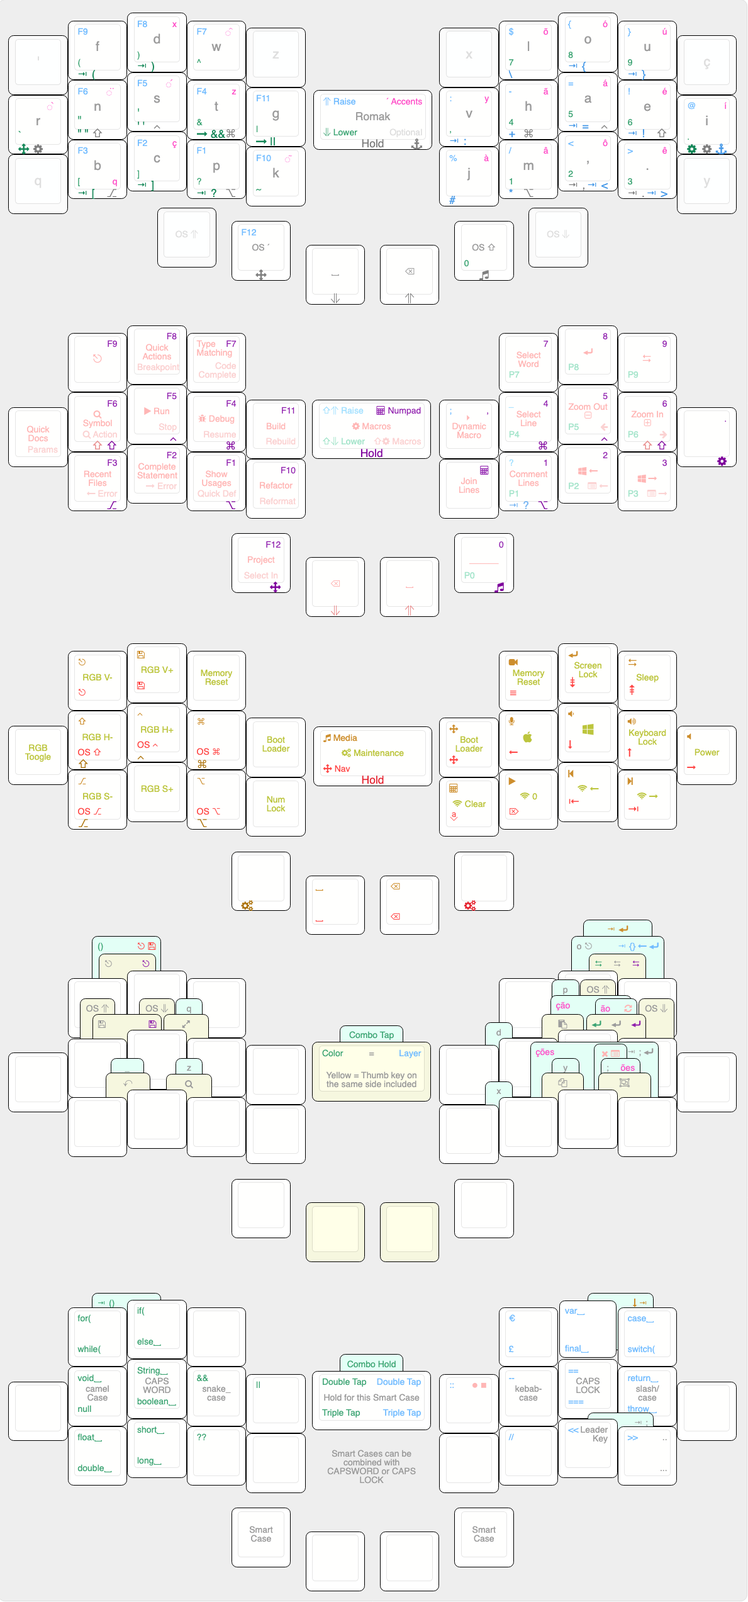
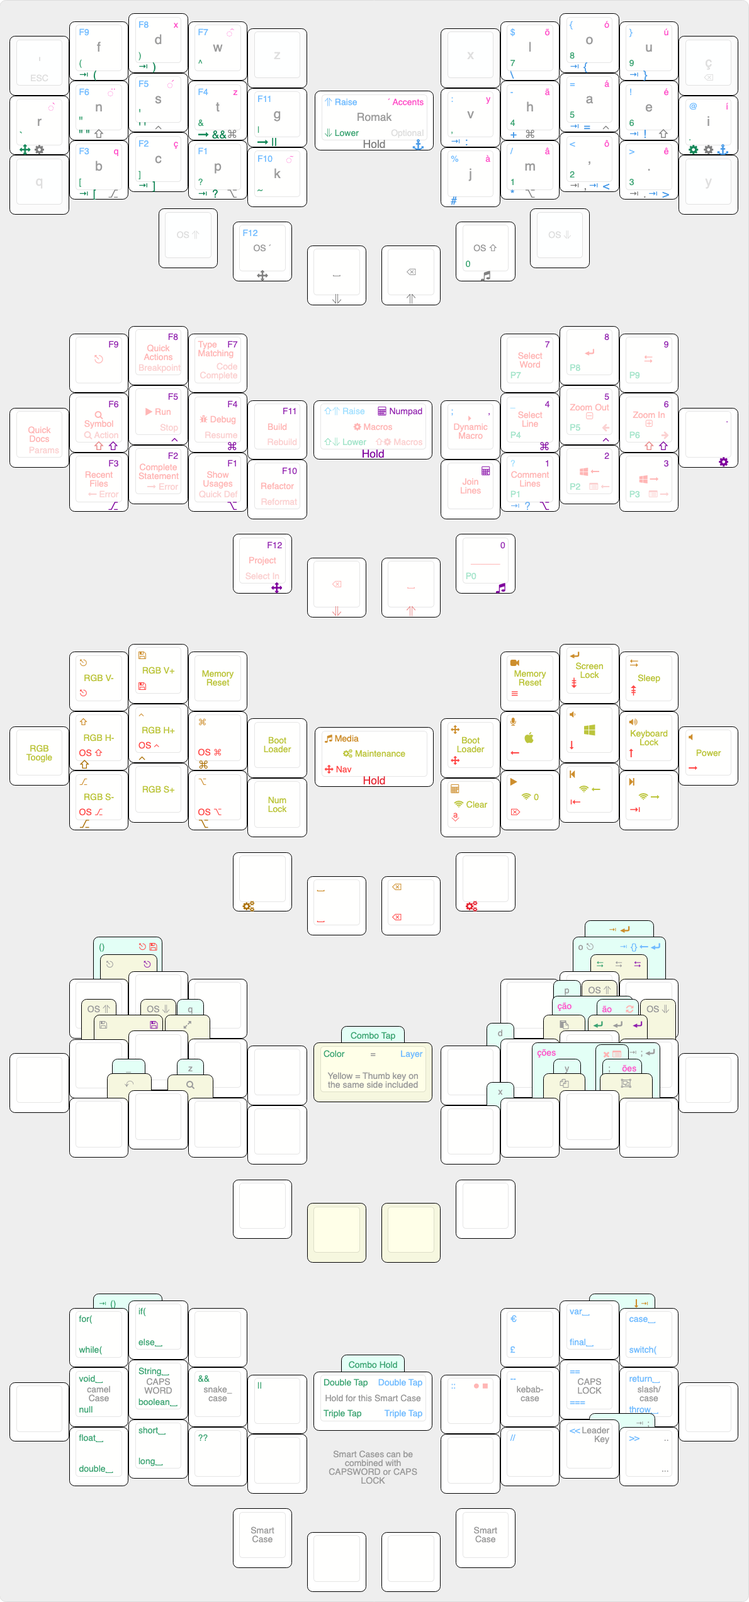
add ESC and BKSP to the top pinkie keys

diff --git a/src/qmk/keyboards/kprepublic/bm40hsrgb/keymaps/rafaelromao/keymap.c b/src/qmk/keyboards/kprepublic/bm40hsrgb/keymaps/rafaelromao/keymap.c
@@ -12,7 +12,7 @@ const uint16_t PROGMEM keymaps[][MATRIX_ROWS][MATRIX_COLS] = {
 
      [_ROMAK] = LAYOUT_wrapper(
  // |_______________________________________________________________________________________________________________________|
-      XXXXXXX , _________ROMAK_L1__________ , XXXXXXX , XXXXXXX , XXXXXXX , XXXXXXX , _________ROMAK_R1__________ , XXXXXXX ,
+      KC_ESC  , _________ROMAK_L1__________ , XXXXXXX , XXXXXXX , XXXXXXX , XXXXXXX , _________ROMAK_R1__________ , KC_BSPC ,
  // |---------+---------+---------+---------+---------+---------+---------+---------+---------+---------+---------+---------|
       ___________________ROMAK_L2____________________ , XXXXXXX , XXXXXXX , ___________________ROMAK_R2____________________ ,
  // |---------+---------+---------+---------+---------+---------+---------+---------+---------+---------+---------+---------|
@@ -23,7 +23,7 @@ const uint16_t PROGMEM keymaps[][MATRIX_ROWS][MATRIX_COLS] = {
 
      [_NUMPAD] = LAYOUT_wrapper(
  // |_______________________________________________________________________________________________________________________|
-      XXXXXXX , _________NUMPAD_L1_________ , XXXXXXX , XXXXXXX , XXXXXXX , XXXXXXX , _________NUMPAD_R1_________ , XXXXXXX ,
+      _______ , _________NUMPAD_L1_________ , XXXXXXX , XXXXXXX , XXXXXXX , XXXXXXX , _________NUMPAD_R1_________ , _______ ,
  // |---------+---------+---------+---------+---------+---------+---------+---------+---------+---------+---------+---------|
       ___________________NUMPAD_L2___________________ , XXXXXXX , XXXXXXX , ___________________NUMPAD_R2___________________ ,
  // |---------+---------+---------+---------+---------+---------+---------+---------+---------+---------+---------+---------|
@@ -34,7 +34,7 @@ const uint16_t PROGMEM keymaps[][MATRIX_ROWS][MATRIX_COLS] = {
 
      [_ACCENT] = LAYOUT_wrapper(
  // |_______________________________________________________________________________________________________________________|
-      XXXXXXX , _________ACCENT_L1_________ , XXXXXXX , XXXXXXX , XXXXXXX , XXXXXXX , _________ACCENT_R1_________ , XXXXXXX ,
+      _______ , _________ACCENT_L1_________ , XXXXXXX , XXXXXXX , XXXXXXX , XXXXXXX , _________ACCENT_R1_________ , _______ ,
  // |---------+---------+---------+---------+---------+---------+---------+---------+---------+---------+---------+---------|
       ___________________ACCENT_L2___________________ , XXXXXXX , XXXXXXX , ___________________ACCENT_R2___________________ ,
  // |---------+---------+---------+---------+---------+---------+---------+---------+---------+---------+---------+---------|
@@ -45,7 +45,7 @@ const uint16_t PROGMEM keymaps[][MATRIX_ROWS][MATRIX_COLS] = {
 
      [_MACROS] = LAYOUT_wrapper(
  // |_______________________________________________________________________________________________________________________|
-      XXXXXXX , _________MACROS_L1_________ , XXXXXXX , XXXXXXX , XXXXXXX , XXXXXXX , _________MACROS_R1_________ , XXXXXXX ,
+      _______ , _________MACROS_L1_________ , XXXXXXX , XXXXXXX , XXXXXXX , XXXXXXX , _________MACROS_R1_________ , _______ ,
  // |---------+---------+---------+---------+---------+---------+---------+---------+---------+---------+---------+---------|
       ___________________MACROS_L2___________________ , XXXXXXX , XXXXXXX , ___________________MACROS_R2___________________ ,
  // |---------+---------+---------+---------+---------+---------+---------+---------+---------+---------+---------+---------|
@@ -56,7 +56,7 @@ const uint16_t PROGMEM keymaps[][MATRIX_ROWS][MATRIX_COLS] = {
 
      [_LOWER] = LAYOUT_wrapper(
  // |_______________________________________________________________________________________________________________________|
-      XXXXXXX , _________LOWER_L1__________ , XXXXXXX , XXXXXXX , XXXXXXX , XXXXXXX , _________LOWER_R1__________ , XXXXXXX ,
+      _______ , _________LOWER_L1__________ , XXXXXXX , XXXXXXX , XXXXXXX , XXXXXXX , _________LOWER_R1__________ , _______ ,
  // |---------+---------+---------+---------+---------+---------+---------+---------+---------+---------+---------+---------|
       ___________________LOWER_L2____________________ , XXXXXXX , XXXXXXX , ___________________LOWER_R2____________________ ,
  // |---------+---------+---------+---------+---------+---------+---------+---------+---------+---------+---------+---------|
@@ -67,7 +67,7 @@ const uint16_t PROGMEM keymaps[][MATRIX_ROWS][MATRIX_COLS] = {
 
      [_RAISE] = LAYOUT_wrapper(
  // |_______________________________________________________________________________________________________________________|
-      XXXXXXX , _________RAISE_L1__________ , XXXXXXX , XXXXXXX , XXXXXXX , XXXXXXX , _________RAISE_R1__________ , XXXXXXX ,
+      _______ , _________RAISE_L1__________ , XXXXXXX , XXXXXXX , XXXXXXX , XXXXXXX , _________RAISE_R1__________ , _______ ,
  // |---------+---------+---------+---------+---------+---------+---------+---------+---------+---------+---------+---------|
       ___________________RAISE_L2____________________ , XXXXXXX , XXXXXXX , ___________________RAISE_R2____________________ ,
  // |---------+---------+---------+---------+---------+---------+---------+---------+---------+---------+---------+---------|
@@ -78,7 +78,7 @@ const uint16_t PROGMEM keymaps[][MATRIX_ROWS][MATRIX_COLS] = {
 
      [_HOLD] = LAYOUT_wrapper(
  // |_______________________________________________________________________________________________________________________|
-      XXXXXXX , _________HOLD__L1__________ , XXXXXXX , XXXXXXX , XXXXXXX , XXXXXXX , _________HOLD__R1__________ , XXXXXXX ,
+      _______ , _________HOLD__L1__________ , XXXXXXX , XXXXXXX , XXXXXXX , XXXXXXX , _________HOLD__R1__________ , _______ ,
  // |---------+---------+---------+---------+---------+---------+---------+---------+---------+---------+---------+---------|
       ___________________HOLD__L2____________________ , XXXXXXX , XXXXXXX , ___________________HOLD__R2____________________ ,
  // |---------+---------+---------+---------+---------+---------+---------+---------+---------+---------+---------+---------|
@@ -89,7 +89,7 @@ const uint16_t PROGMEM keymaps[][MATRIX_ROWS][MATRIX_COLS] = {
 
      [_FIXED_NAV] = LAYOUT_wrapper(
  // |_______________________________________________________________________________________________________________________|
-      XXXXXXX , _________NAVIGATION_L1_____ , XXXXXXX , XXXXXXX , XXXXXXX , XXXXXXX , _________NAVIGATION_R1_____ , XXXXXXX ,
+      _______ , _________NAVIGATION_L1_____ , XXXXXXX , XXXXXXX , XXXXXXX , XXXXXXX , _________NAVIGATION_R1_____ , _______ ,
  // |---------+---------+---------+---------+---------+---------+---------+---------+---------+---------+---------+---------|
       ___________________NAVIGATION_L2_______________ , XXXXXXX , XXXXXXX , ___________________NAVIGATION_R2_______________ ,
  // |---------+---------+---------+---------+---------+---------+---------+---------+---------+---------+---------+---------|
@@ -100,7 +100,7 @@ const uint16_t PROGMEM keymaps[][MATRIX_ROWS][MATRIX_COLS] = {
 
      [_NAVIGATION] = LAYOUT_wrapper(
  // |_______________________________________________________________________________________________________________________|
-      XXXXXXX , _________NAVIGATION_L1_____ , XXXXXXX , XXXXXXX , XXXXXXX , XXXXXXX , _________NAVIGATION_R1_____ , XXXXXXX ,
+      _______ , _________NAVIGATION_L1_____ , XXXXXXX , XXXXXXX , XXXXXXX , XXXXXXX , _________NAVIGATION_R1_____ , _______ ,
  // |---------+---------+---------+---------+---------+---------+---------+---------+---------+---------+---------+---------|
       ___________________NAVIGATION_L2_______________ , XXXXXXX , XXXXXXX , ___________________NAVIGATION_R2_______________ ,
  // |---------+---------+---------+---------+---------+---------+---------+---------+---------+---------+---------+---------|
@@ -111,7 +111,7 @@ const uint16_t PROGMEM keymaps[][MATRIX_ROWS][MATRIX_COLS] = {
 
      [_MEDIA] = LAYOUT_wrapper(
  // |_______________________________ ________________________________________________________________________________________|
-      XXXXXXX , _________MEDIA_L1__________ , XXXXXXX , XXXXXXX , XXXXXXX , XXXXXXX , _________MEDIA_R1__________ , XXXXXXX ,
+      _______ , _________MEDIA_L1__________ , XXXXXXX , XXXXXXX , XXXXXXX , XXXXXXX , _________MEDIA_R1__________ , _______ ,
  // |---------+---------+---------+---------+---------+---------+---------+---------+---------+---------+---------+---------|
       ___________________MEDIA_L2____________________ , XXXXXXX , XXXXXXX , ___________________MEDIA_R2____________________ ,
  // |---------+---------+---------+---------+---------+---------+---------+---------+---------+---------+---------+---------|
@@ -133,7 +133,7 @@ const uint16_t PROGMEM keymaps[][MATRIX_ROWS][MATRIX_COLS] = {
 
      [_MAINTENANCE] = LAYOUT_wrapper(
  // |_______________________________________________________________________________________________________________________|
-      XXXXXXX , _________MAINTENANCE_L1____ , XXXXXXX , XXXXXXX , XXXXXXX , XXXXXXX , _________MAINTENANCE_R1____ , XXXXXXX ,
+      _______ , _________MAINTENANCE_L1____ , XXXXXXX , XXXXXXX , XXXXXXX , XXXXXXX , _________MAINTENANCE_R1____ , _______ ,
  // |---------+---------+---------+---------+---------+---------+---------+---------+---------+---------+---------+---------|
       ___________________MAINTENANCE_L2______________ , XXXXXXX , XXXXXXX , ___________________MAINTENANCE_R2______________ ,
  // |---------+---------+---------+---------+---------+---------+---------+---------+---------+---------+---------+---------|

diff --git a/src/qmk/keyboards/handwired/rafaelromao/fauxberry/keymaps/rafaelromao/keymap.c b/src/qmk/keyboards/handwired/rafaelromao/fauxberry/keymaps/rafaelromao/keymap.c
@@ -12,7 +12,7 @@ const uint16_t PROGMEM keymaps[][MATRIX_ROWS][MATRIX_COLS] = {
 
      [_ROMAK] = LAYOUT_wrapper(
  // |___________________________________________________________________________________________________|
-      KCR_MAC , _________ROMAK_L1__________ , XXXXXXX , XXXXXXX , _________ROMAK_R1__________ , KCI_MAC ,
+      KC_ESC  , _________ROMAK_L1__________ , XXXXXXX , XXXXXXX , _________ROMAK_R1__________ , KC_BSPC ,
  // |---------+---------+---------+---------+---------+---------+---------+---------+---------+---------|
       ___________________ROMAK_L2____________________ , ___________________ROMAK_R2____________________ ,
  // |---------+---------+---------+---------+---------+---------+---------+---------+---------+---------|
@@ -23,7 +23,7 @@ const uint16_t PROGMEM keymaps[][MATRIX_ROWS][MATRIX_COLS] = {
 
      [_NUMPAD] = LAYOUT_wrapper(
  // |___________________________________________________________________________________________________|
-      XXXXXXX , _________NUMPAD_L1_________ , XXXXXXX , XXXXXXX , _________NUMPAD_R1_________ , XXXXXXX ,
+      _______ , _________NUMPAD_L1_________ , XXXXXXX , XXXXXXX , _________NUMPAD_R1_________ , _______ ,
  // |---------+---------+---------+---------+---------+---------+---------+---------+---------+---------|
       ___________________NUMPAD_L2___________________ , ___________________NUMPAD_R2___________________ ,
  // |---------+---------+---------+---------+---------+---------+---------+---------+---------+---------|
@@ -34,7 +34,7 @@ const uint16_t PROGMEM keymaps[][MATRIX_ROWS][MATRIX_COLS] = {
 
      [_ACCENT] = LAYOUT_wrapper(
  // |___________________________________________________________________________________________________|
-      XXXXXXX , _________ACCENT_L1_________ , XXXXXXX , XXXXXXX , _________ACCENT_R1_________ , XXXXXXX ,
+      _______ , _________ACCENT_L1_________ , XXXXXXX , XXXXXXX , _________ACCENT_R1_________ , _______ ,
  // |---------+---------+---------+---------+---------+---------+---------+---------+---------+---------|
       ___________________ACCENT_L2___________________ , ___________________ACCENT_R2___________________ ,
  // |---------+---------+---------+---------+---------+---------+---------+---------+---------+---------|
@@ -45,7 +45,7 @@ const uint16_t PROGMEM keymaps[][MATRIX_ROWS][MATRIX_COLS] = {
 
      [_MACROS] = LAYOUT_wrapper(
  // |___________________________________________________________________________________________________|
-      XXXXXXX , _________MACROS_L1_________ , XXXXXXX , XXXXXXX , _________MACROS_R1_________ , XXXXXXX ,
+      _______ , _________MACROS_L1_________ , XXXXXXX , XXXXXXX , _________MACROS_R1_________ , _______ ,
  // |---------+---------+---------+---------+---------+---------+---------+---------+---------+---------|
       ___________________MACROS_L2___________________ , ___________________MACROS_R2___________________ ,
  // |---------+---------+---------+---------+---------+---------+---------+---------+---------+---------|
@@ -56,7 +56,7 @@ const uint16_t PROGMEM keymaps[][MATRIX_ROWS][MATRIX_COLS] = {
 
      [_LOWER] = LAYOUT_wrapper(
  // |___________________________________________________________________________________________________|
-      XXXXXXX , _________LOWER_L1__________ , XXXXXXX , XXXXXXX , _________LOWER_R1__________ , XXXXXXX ,
+      _______ , _________LOWER_L1__________ , XXXXXXX , XXXXXXX , _________LOWER_R1__________ , _______ ,
  // |---------+---------+---------+---------+---------+---------+---------+---------+---------+---------|
       ___________________LOWER_L2____________________ , ___________________LOWER_R2____________________ ,
  // |---------+---------+---------+---------+---------+---------+---------+---------+---------+---------|
@@ -67,7 +67,7 @@ const uint16_t PROGMEM keymaps[][MATRIX_ROWS][MATRIX_COLS] = {
 
      [_RAISE] = LAYOUT_wrapper(
  // |_______________________________ ____________________________________________________________________|
-      XXXXXXX , _________RAISE_L1__________ , XXXXXXX , XXXXXXX , _________RAISE_R1__________ , XXXXXXX ,
+      _______ , _________RAISE_L1__________ , XXXXXXX , XXXXXXX , _________RAISE_R1__________ , _______ ,
  // |---------+---------+---------+---------+---------+---------+---------+---------+---------+---------|
       ___________________RAISE_L2____________________ , ___________________RAISE_R2____________________ ,
  // |---------+---------+---------+---------+---------+---------+---------+---------+---------+---------|
@@ -78,7 +78,7 @@ const uint16_t PROGMEM keymaps[][MATRIX_ROWS][MATRIX_COLS] = {
 
      [_HOLD] = LAYOUT_wrapper(
  // |_______________________________ ____________________________________________________________________|
-      XXXXXXX , _________HOLD__L1__________ , XXXXXXX , XXXXXXX , _________HOLD__R1__________ , XXXXXXX ,
+      _______ , _________HOLD__L1__________ , XXXXXXX , XXXXXXX , _________HOLD__R1__________ , _______ ,
  // |---------+---------+---------+---------+---------+---------+---------+---------+---------+---------|
       ___________________HOLD__L2____________________ , ___________________HOLD__R2____________________ ,
  // |---------+---------+---------+---------+---------+---------+---------+---------+---------+---------|
@@ -89,7 +89,7 @@ const uint16_t PROGMEM keymaps[][MATRIX_ROWS][MATRIX_COLS] = {
 
      [_FIXED_NAV] = LAYOUT_wrapper(
  // |___________________________________________________________________________________________________|
-      XXXXXXX , _________NAVIGATION_L1_____ , XXXXXXX , XXXXXXX , _________NAVIGATION_R1_____ , XXXXXXX ,
+      _______ , _________NAVIGATION_L1_____ , XXXXXXX , XXXXXXX , _________NAVIGATION_R1_____ , _______ ,
  // |---------+---------+---------+---------+---------+---------+---------+---------+---------+---------|
       ___________________NAVIGATION_L2_______________ , ___________________NAVIGATION_R2_______________ ,
  // |---------+---------+---------+---------+---------+---------+---------+---------+---------+---------|
@@ -100,7 +100,7 @@ const uint16_t PROGMEM keymaps[][MATRIX_ROWS][MATRIX_COLS] = {
 
      [_NAVIGATION] = LAYOUT_wrapper(
  // |___________________________________________________________________________________________________|
-      XXXXXXX , _________NAVIGATION_L1_____ , XXXXXXX , XXXXXXX , _________NAVIGATION_R1_____ , XXXXXXX ,
+      _______ , _________NAVIGATION_L1_____ , XXXXXXX , XXXXXXX , _________NAVIGATION_R1_____ , _______ ,
  // |---------+---------+---------+---------+---------+---------+---------+---------+---------+---------|
       ___________________NAVIGATION_L2_______________ , ___________________NAVIGATION_R2_______________ ,
  // |---------+---------+---------+---------+---------+---------+---------+---------+---------+---------|
@@ -111,7 +111,7 @@ const uint16_t PROGMEM keymaps[][MATRIX_ROWS][MATRIX_COLS] = {
 
      [_MEDIA] = LAYOUT_wrapper(
  // |_______________________________ ____________________________________________________________________|
-      XXXXXXX , _________MEDIA_L1__________ , XXXXXXX , XXXXXXX , _________MEDIA_R1__________ , XXXXXXX ,
+      _______ , _________MEDIA_L1__________ , XXXXXXX , XXXXXXX , _________MEDIA_R1__________ , _______ ,
  // |---------+---------+---------+---------+---------+---------+---------+---------+---------+---------|
       ___________________MEDIA_L2____________________ , ___________________MEDIA_R2____________________ ,
  // |---------+---------+---------+---------+---------+---------+---------+---------+---------+---------|
@@ -133,7 +133,7 @@ const uint16_t PROGMEM keymaps[][MATRIX_ROWS][MATRIX_COLS] = {
 
      [_MAINTENANCE] = LAYOUT_wrapper(
  // |___________________________________________________________________________________________________|
-      XXXXXXX , _________MAINTENANCE_L1____ , XXXXXXX , XXXXXXX , _________MAINTENANCE_R1____ , XXXXXXX ,
+      _______ , _________MAINTENANCE_L1____ , XXXXXXX , XXXXXXX , _________MAINTENANCE_R1____ , _______ ,
  // |---------+---------+---------+---------+---------+---------+---------+---------+---------+---------|
       ___________________MAINTENANCE_L2______________ , ___________________MAINTENANCE_R2______________ ,
  // |---------+---------+---------+---------+---------+---------+---------+---------+---------+---------|

diff --git a/src/qmk/keyboards/handwired/rafaelromao/xiao/keymaps/rafaelromao/keymap.c b/src/qmk/keyboards/handwired/rafaelromao/xiao/keymaps/rafaelromao/keymap.c
@@ -12,7 +12,7 @@ const uint16_t PROGMEM keymaps[][MATRIX_ROWS][MATRIX_COLS] = {
 
      [_ROMAK] = LAYOUT_wrapper(
  // |___________________________________________________________________________________________________|
-      KC_R    , _________ROMAK_L1__________           ,           _________ROMAK_R1__________ , KC_I    ,
+      KC_ESC  , _________ROMAK_L1__________           ,           _________ROMAK_R1__________ , KC_BSPC ,
  // |---------+---------+---------+---------+---------+---------+---------+---------+---------+---------|
       ___________________ROMAK_L2____________________ , ___________________ROMAK_R2____________________ ,
  // |---------+---------+---------+---------+---------+---------+---------+---------+---------+---------|
@@ -23,7 +23,7 @@ const uint16_t PROGMEM keymaps[][MATRIX_ROWS][MATRIX_COLS] = {
 
      [_NUMPAD] = LAYOUT_wrapper(
  // |___________________________________________________________________________________________________|
-      XXXXXXX , _________NUMPAD_L1_________           ,           _________NUMPAD_R1_________ , XXXXXXX ,
+      _______ , _________NUMPAD_L1_________           ,           _________NUMPAD_R1_________ , _______ ,
  // |---------+---------+---------+---------+---------+---------+---------+---------+---------+---------|
       ___________________NUMPAD_L2___________________ , ___________________NUMPAD_R2___________________ ,
  // |---------+---------+---------+---------+---------+---------+---------+---------+---------+---------|
@@ -34,7 +34,7 @@ const uint16_t PROGMEM keymaps[][MATRIX_ROWS][MATRIX_COLS] = {
 
      [_ACCENT] = LAYOUT_wrapper(
  // |___________________________________________________________________________________________________|
-      XXXXXXX , _________ACCENT_L1_________           ,           _________ACCENT_R1_________ , XXXXXXX ,
+      _______ , _________ACCENT_L1_________           ,           _________ACCENT_R1_________ , _______ ,
  // |---------+---------+---------+---------+---------+---------+---------+---------+---------+---------|
       ___________________ACCENT_L2___________________ , ___________________ACCENT_R2___________________ ,
  // |---------+---------+---------+---------+---------+---------+---------+---------+---------+---------|
@@ -45,7 +45,7 @@ const uint16_t PROGMEM keymaps[][MATRIX_ROWS][MATRIX_COLS] = {
 
      [_MACROS] = LAYOUT_wrapper(
  // |___________________________________________________________________________________________________|
-      XXXXXXX , _________MACROS_L1_________           ,           _________MACROS_R1_________ , XXXXXXX ,
+      _______ , _________MACROS_L1_________           ,           _________MACROS_R1_________ , _______ ,
  // |---------+---------+---------+---------+---------+---------+---------+---------+---------+---------|
       ___________________MACROS_L2___________________ , ___________________MACROS_R2___________________ ,
  // |---------+---------+---------+---------+---------+---------+---------+---------+---------+---------|
@@ -56,7 +56,7 @@ const uint16_t PROGMEM keymaps[][MATRIX_ROWS][MATRIX_COLS] = {
 
      [_LOWER] = LAYOUT_wrapper(
  // |___________________________________________________________________________________________________|
-      XXXXXXX , _________LOWER_L1__________           ,           _________LOWER_R1__________ , XXXXXXX ,
+      _______ , _________LOWER_L1__________           ,           _________LOWER_R1__________ , _______ ,
  // |---------+---------+---------+---------+---------+---------+---------+---------+---------+---------|
       ___________________LOWER_L2____________________ , ___________________LOWER_R2____________________ ,
  // |---------+---------+---------+---------+---------+---------+---------+---------+---------+---------|
@@ -67,7 +67,7 @@ const uint16_t PROGMEM keymaps[][MATRIX_ROWS][MATRIX_COLS] = {
 
      [_RAISE] = LAYOUT_wrapper(
  // |_______________________________ ____________________________________________________________________|
-      XXXXXXX , _________RAISE_L1__________           ,           _________RAISE_R1__________ , XXXXXXX ,
+      _______ , _________RAISE_L1__________           ,           _________RAISE_R1__________ , _______ ,
  // |---------+---------+---------+---------+---------+---------+---------+---------+---------+---------|
       ___________________RAISE_L2____________________ , ___________________RAISE_R2____________________ ,
  // |---------+---------+---------+---------+---------+---------+---------+---------+---------+---------|
@@ -78,7 +78,7 @@ const uint16_t PROGMEM keymaps[][MATRIX_ROWS][MATRIX_COLS] = {
 
      [_HOLD] = LAYOUT_wrapper(
  // |_______________________________ ____________________________________________________________________|
-      XXXXXXX , _________HOLD__L1__________           ,           _________HOLD__R1__________ , XXXXXXX ,
+      _______ , _________HOLD__L1__________           ,           _________HOLD__R1__________ , _______ ,
  // |---------+---------+---------+---------+---------+---------+---------+---------+---------+---------|
       ___________________HOLD__L2____________________ , ___________________HOLD__R2____________________ ,
  // |---------+---------+---------+---------+---------+---------+---------+---------+---------+---------|
@@ -89,7 +89,7 @@ const uint16_t PROGMEM keymaps[][MATRIX_ROWS][MATRIX_COLS] = {
 
      [_FIXED_NAV] = LAYOUT_wrapper(
  // |___________________________________________________________________________________________________|
-      XXXXXXX , _________NAVIGATION_L1_____           ,           _________NAVIGATION_R1_____ , XXXXXXX ,
+      _______ , _________NAVIGATION_L1_____           ,           _________NAVIGATION_R1_____ , _______ ,
  // |---------+---------+---------+---------+---------+---------+---------+---------+---------+---------|
       ___________________NAVIGATION_L2_______________ , ___________________NAVIGATION_R2_______________ ,
  // |---------+---------+---------+---------+---------+---------+---------+---------+---------+---------|
@@ -100,7 +100,7 @@ const uint16_t PROGMEM keymaps[][MATRIX_ROWS][MATRIX_COLS] = {
 
      [_NAVIGATION] = LAYOUT_wrapper(
  // |___________________________________________________________________________________________________|
-      XXXXXXX , _________NAVIGATION_L1_____           ,           _________NAVIGATION_R1_____ , XXXXXXX ,
+      _______ , _________NAVIGATION_L1_____           ,           _________NAVIGATION_R1_____ , _______ ,
  // |---------+---------+---------+---------+---------+---------+---------+---------+---------+---------|
       ___________________NAVIGATION_L2_______________ , ___________________NAVIGATION_R2_______________ ,
  // |---------+---------+---------+---------+---------+---------+---------+---------+---------+---------|
@@ -111,7 +111,7 @@ const uint16_t PROGMEM keymaps[][MATRIX_ROWS][MATRIX_COLS] = {
 
      [_MEDIA] = LAYOUT_wrapper(
  // |_______________________________ ____________________________________________________________________|
-      XXXXXXX , _________MEDIA_L1__________           ,           _________MEDIA_R1__________ , XXXXXXX ,
+      _______ , _________MEDIA_L1__________           ,           _________MEDIA_R1__________ , _______ ,
  // |---------+---------+---------+---------+---------+---------+---------+---------+---------+---------|
       ___________________MEDIA_L2____________________ , ___________________MEDIA_R2____________________ ,
  // |---------+---------+---------+---------+---------+---------+---------+---------+---------+---------|
@@ -133,7 +133,7 @@ const uint16_t PROGMEM keymaps[][MATRIX_ROWS][MATRIX_COLS] = {
 
      [_MAINTENANCE] = LAYOUT_wrapper(
  // |___________________________________________________________________________________________________|
-      XXXXXXX , _________MAINTENANCE_L1____           ,           _________MAINTENANCE_R1____ , XXXXXXX ,
+      _______ , _________MAINTENANCE_L1____           ,           _________MAINTENANCE_R1____ , _______ ,
  // |---------+---------+---------+---------+---------+---------+---------+---------+---------+---------|
       ___________________MAINTENANCE_L2______________ , ___________________MAINTENANCE_R2______________ ,
  // |---------+---------+---------+---------+---------+---------+---------+---------+---------+---------|
